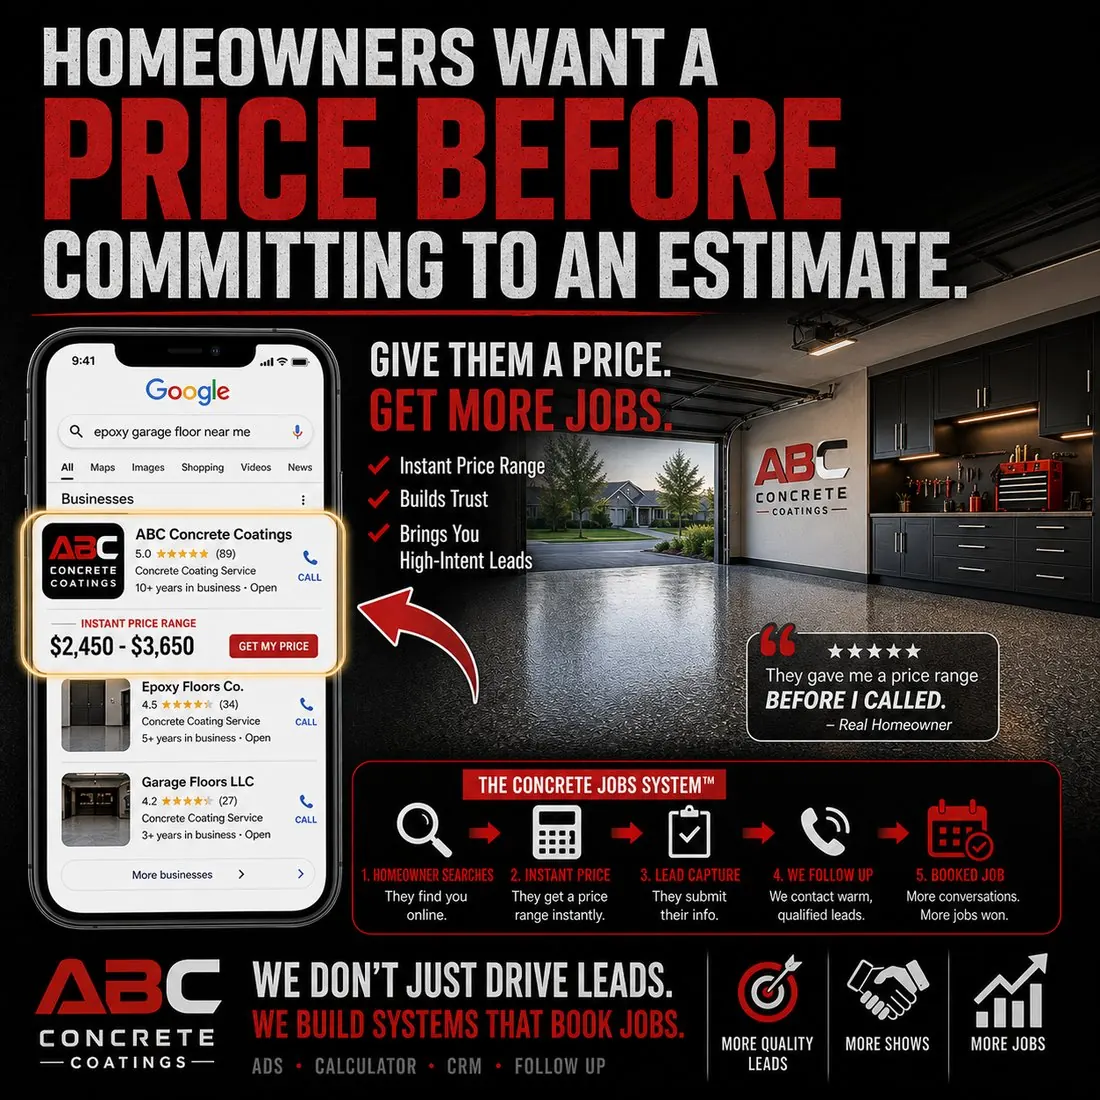
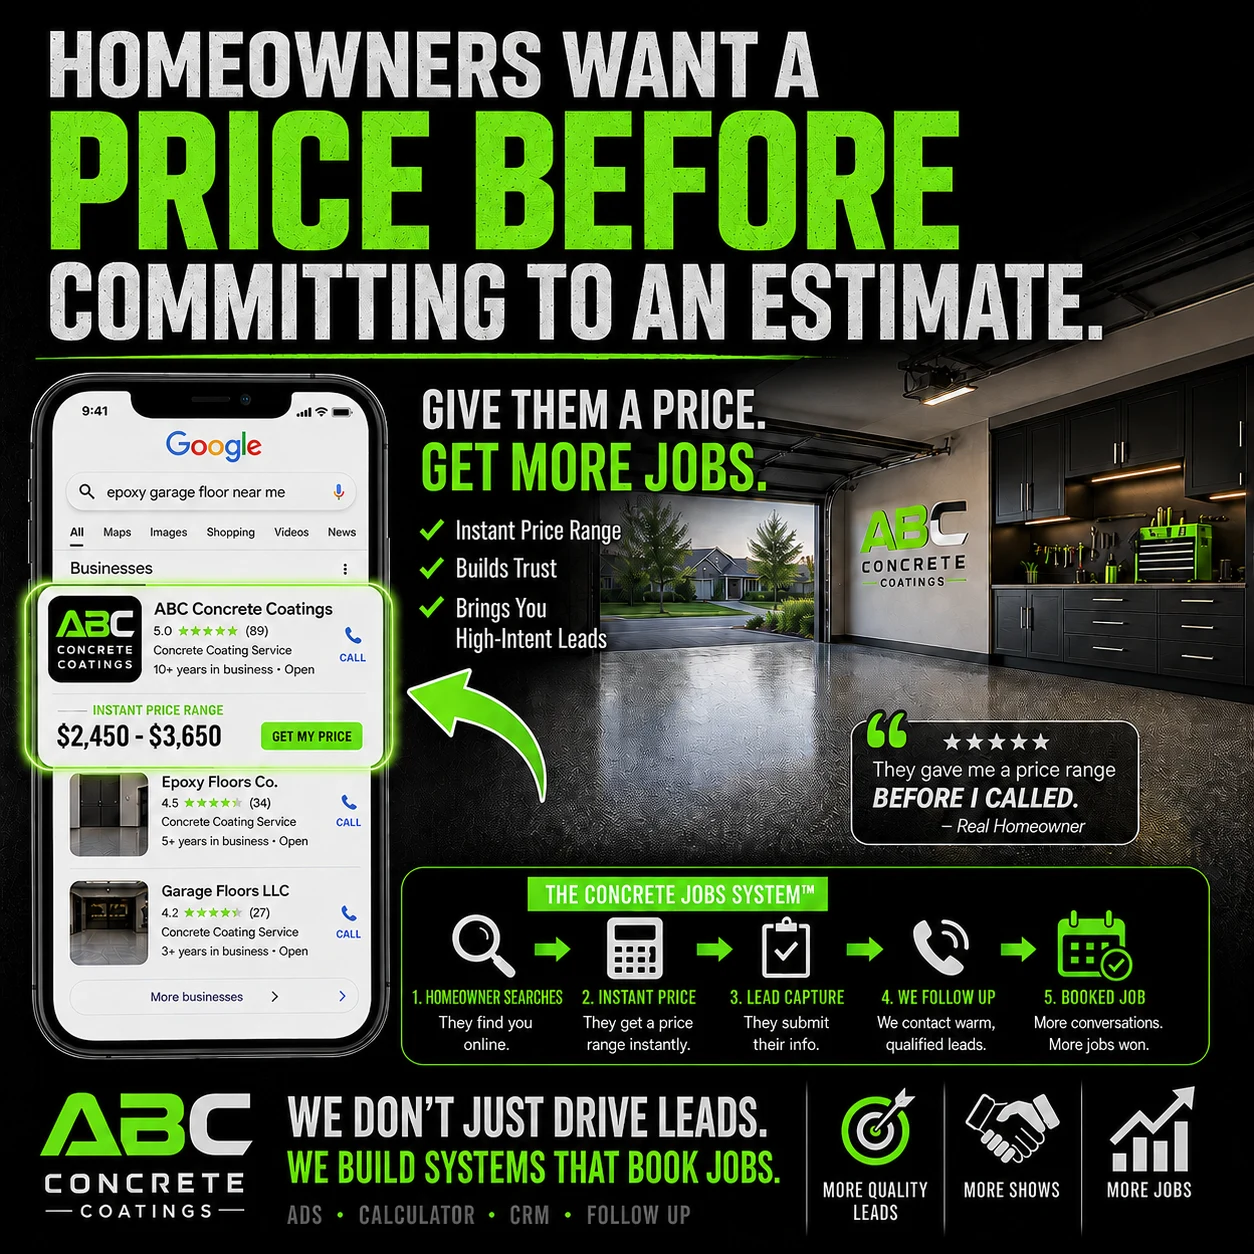
Swap hero proof image with Concrete Jobs System infographic
Replace instant-price-ad-example.webp with the new Concrete Jobs System
infographic (1254×1254). Updates index.html img dimensions and alt text to
match. Removes the raw PNG that was uploaded directly to the repo root.

Claude-Session: https://claude.ai/code/session_016L3WjrYeD8dskMjyHP7fAg

diff --git a/index.html b/index.html
@@ -171,8 +171,8 @@
         <div class="hazard"></div>
         <div style="padding: clamp(1.4rem, 3vw, 2rem); background: rgba(20,20,21,0.88); backdrop-filter: blur(10px);">
           <p class="eyebrow" style="margin-bottom:1rem;">Live On Your Website</p>
-          <img src="/assets/img/proof/instant-price-ad-example.webp" width="1100" height="1100" alt="Google search results for 'epoxy garage floor near me' showing ABC Concrete Coatings ranked first with 5.0 stars, an instant price range of $2,450 to $3,650, and a Get My Price button, above two competitors with no price shown" loading="lazy" style="border-radius:var(--radius-sm); border:1px solid var(--line-strong); width:100%; display:block;">
-          <p style="font-size:0.78rem; color:var(--grey-700); margin-top:1rem;">Example: how an instant price range stands out against competitors in Google search results.</p>
+          <img src="/assets/img/proof/instant-price-ad-example.webp" width="1254" height="1254" alt="Infographic showing The Concrete Jobs System 5-step flow — homeowner searches, sees instant price range on your site, submits contact info, enters the CRM pipeline, and books an estimate — with the tagline 'We don't just drive leads. We build systems that book jobs.'" loading="lazy" style="border-radius:var(--radius-sm); border:1px solid var(--line-strong); width:100%; display:block;">
+          <p style="font-size:0.78rem; color:var(--grey-700); margin-top:1rem;">The Concrete Jobs System: from first search to booked estimate, automated.</p>
         </div>
       </div>
     </div>
